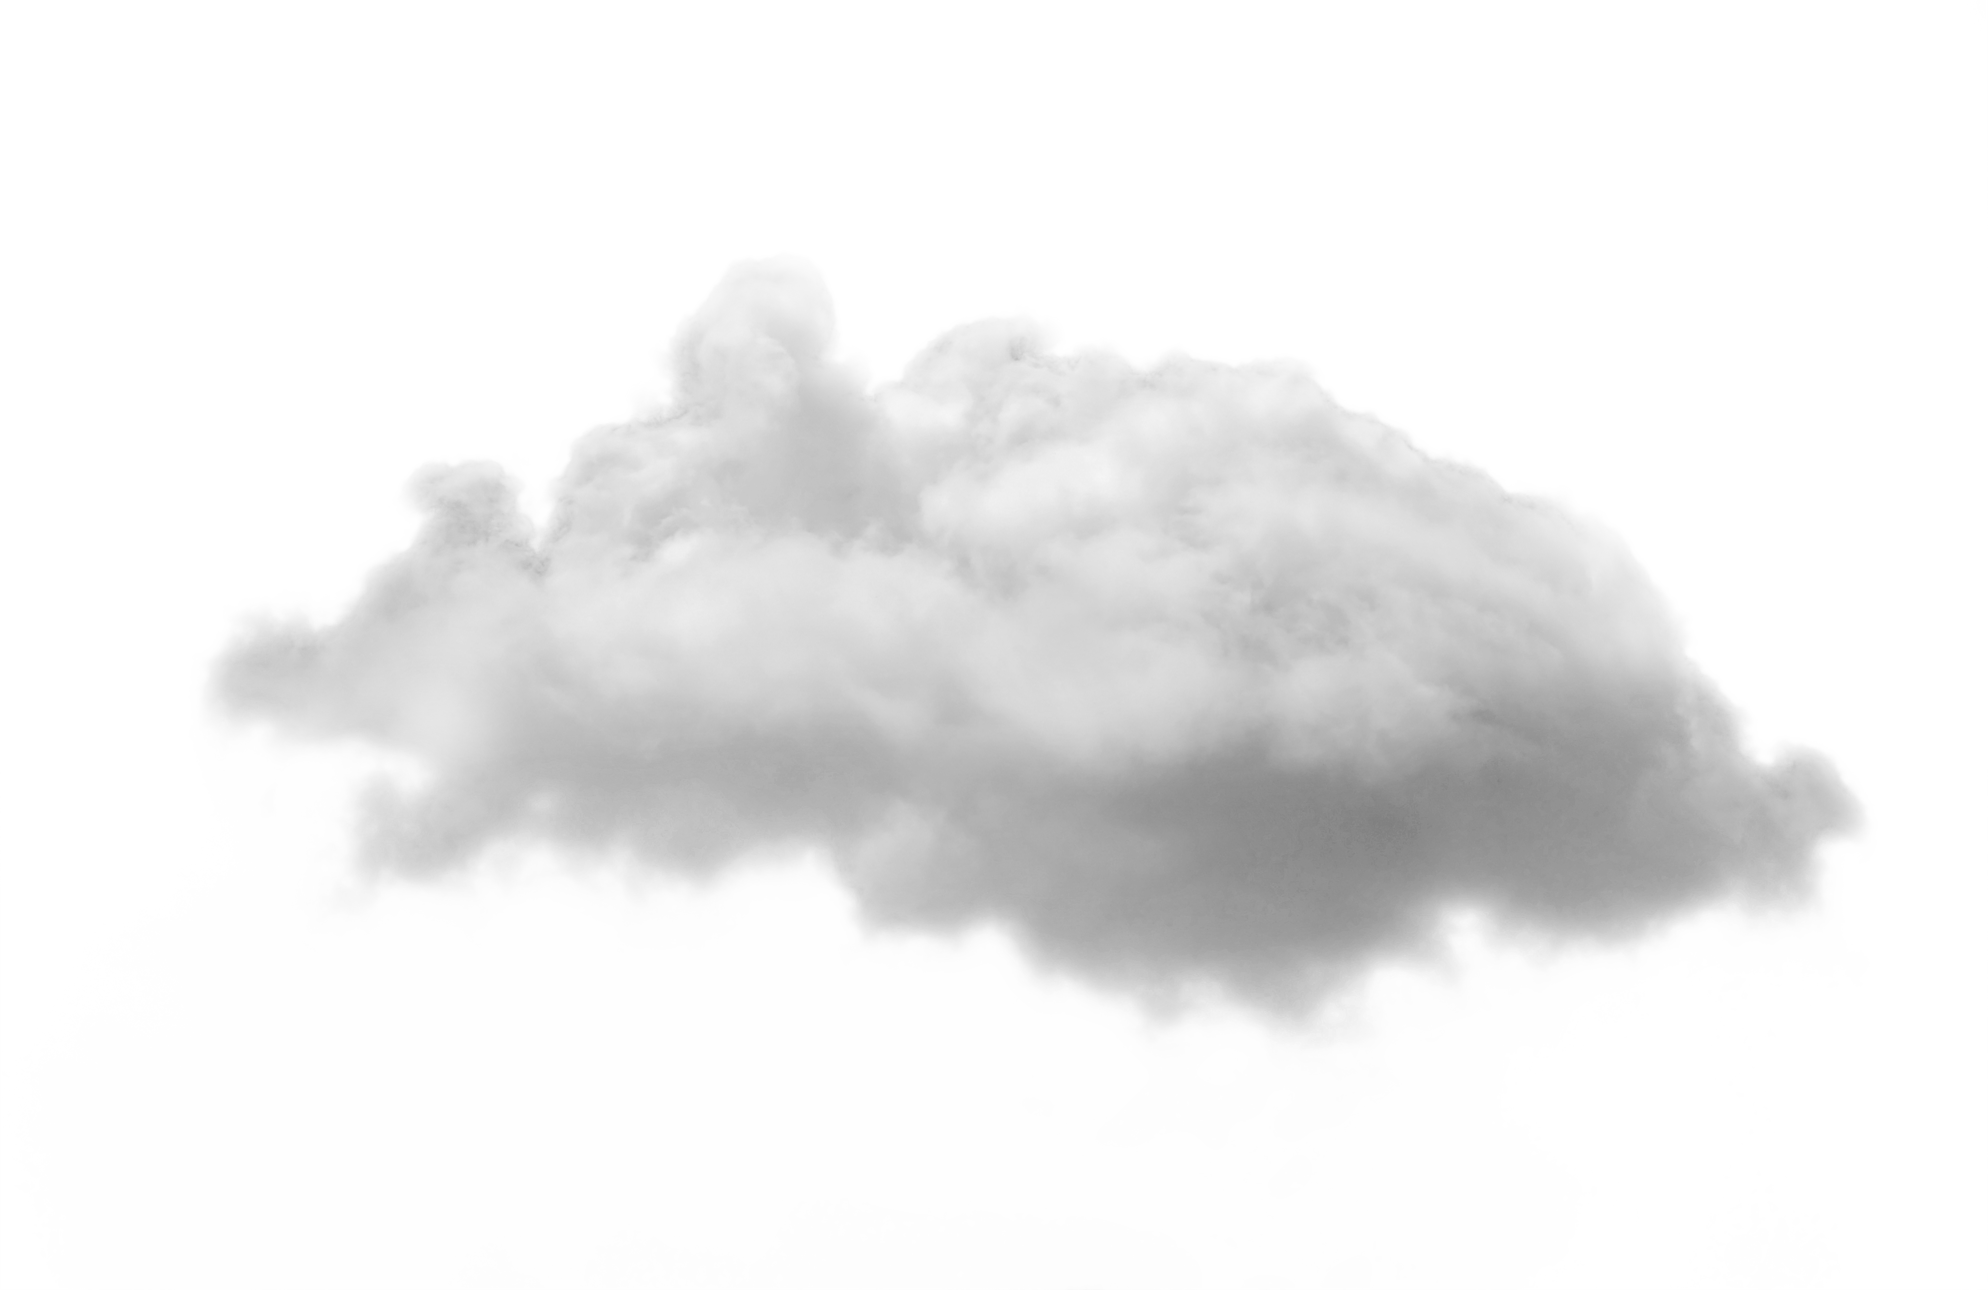
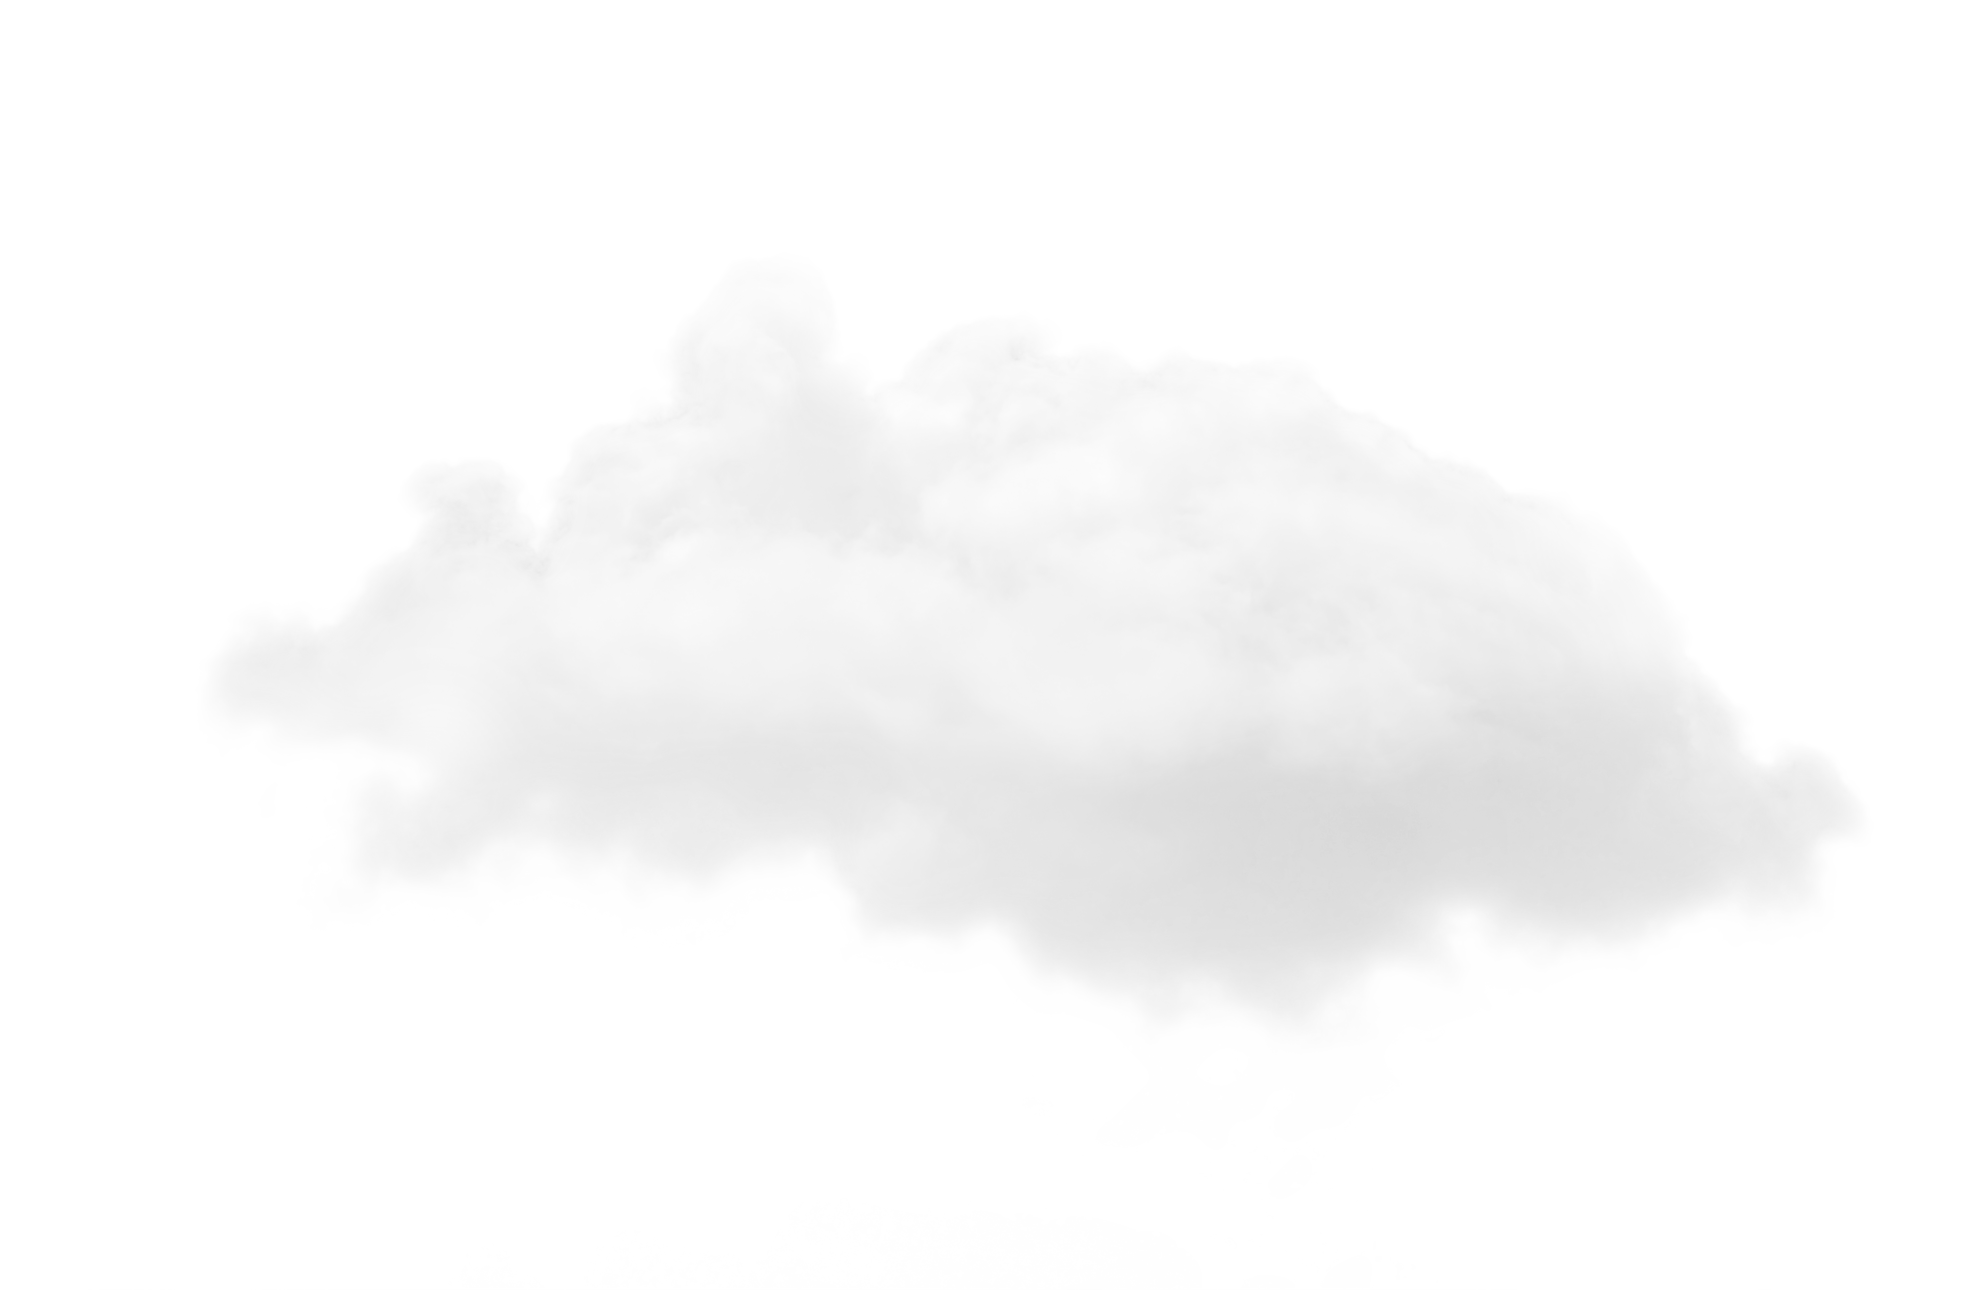
soothing clouds

Changed region(s): [[0.0936, 0.2481, 0.9356, 0.8062], [0.499, 0.2481, 0.5302, 0.2791]]

diff --git a/src/routes/abstract/+page.svelte b/src/routes/abstract/+page.svelte
@@ -12,26 +12,8 @@
     let windSpeed = 0;
     let windDirection = 0;
 
-    let cloudTextures = [];
-    const texturePaths = [
-        "cloud1.png",
-        "cloud2.png",
-        "cloud3.png",
-        "cloud4.png",
-        "cloud5.png",
-        // "cloud6.png",
-    ];
-
-    function loadTextures() {
-        const loader = new THREE.TextureLoader();
-        texturePaths.forEach((path) => {
-            cloudTextures.push(loader.load(path));
-        });
-    }
-
     onMount(async () => {
         initThreeJS();
-        loadTextures();
         animate();
         const response = await fetch("2d.json");
         data = await response.json();
@@ -58,12 +40,13 @@
 
         const radians = THREE.MathUtils.degToRad(windDirection);
         const xSpeed = Math.sin(radians) * windSpeed;
-        const ySpeed = -Math.cos(radians) * windSpeed;
+        const ySpeed = -Math.cos(radians) * windSpeed; // Negative because y-coordinates increase downwards in screen space
 
         cloudMeshes.forEach((mesh) => {
             mesh.position.x += xSpeed;
             mesh.position.y += ySpeed;
 
+            // Reset position when moving out of view for looping effect
             if (mesh.position.x > 1000) mesh.position.x = -1000;
             if (mesh.position.x < -1000) mesh.position.x = 1000;
             if (mesh.position.y > 500) mesh.position.y = -500;
@@ -76,27 +59,26 @@
     function updateEnvironment(datum) {
         const tempHue = 200;
         const timeOfDay = new Date(datum.time).getHours();
+
         const hueAdjustment = mapValue(timeOfDay, 0, 23, -10, 10);
         const adjustedHue = tempHue + hueAdjustment;
 
+        const rain = mapValue(datum.humidity, 0, 100, 100, 0);
         const light = mapValue(datum.solarradiation, 0, 1000, 20, 100);
+
         scene.background = new THREE.Color(
             `hsl(${adjustedHue}, 50%, ${light}%)`,
         );
 
-        const rain = mapValue(datum.humidity, 50, 100, 50, 0);
-        let cloudColorBrightness = Math.max(0, light * 0.5 + rain * 0.5);
-        let cloudColor = new THREE.Color(
-            `hsl(0, 0%, ${cloudColorBrightness}%)`,
-        );
+        let cloudColor = new THREE.Color(`hsl(0, 0%, ${100 - rain}%)`);
 
         const dewpoint = mapValue(datum.dewpoint, 0, 30, 0, 20);
-        const humidity = mapValue(datum.humidity, 50, 100, 0, 50);
-        let cloudDensity = humidity;
-        windSpeed = mapValue(datum.windspeed, 0, 50, 0, 1);
+        const humidity = mapValue(datum.humidity, 50, 100, 0, 20);
+        let cloudDensity = humidity; // Math.abs(humidity + dewpoint);
+        windSpeed = mapValue(datum.windspeed, 0, 30, 0, 2);
         windDirection = datum.winddir;
 
-        let cloudOpacity = mapValue(light, 0, 100, 0.3, 1);
+        let cloudOpacity = mapValue(light, 0, 100, 0.1, 1);
 
         updateClouds(cloudDensity, cloudColor, cloudOpacity);
         time = datum.time + " | " + cloudDensity + " | " + rain;
@@ -106,15 +88,16 @@
         cloudMeshes.forEach((mesh) => scene.remove(mesh));
         cloudMeshes = [];
 
-        const texture =
-            cloudTextures[Math.floor(Math.random() * cloudTextures.length)];
+        const texture = new THREE.TextureLoader().load("cloud3.png");
+        const fog = new THREE.Fog(scene.background, 50, 1500);
+
         const material = new THREE.ShaderMaterial({
             uniforms: {
                 map: { value: texture },
-                cloudColor: { value: cloudColor },
+                fogColor: { value: cloudColor },
                 cloudOpacity: { value: cloudOpacity },
-                fogNear: { value: 50 },
-                fogFar: { value: 1500 },
+                fogNear: { value: fog.near },
+                fogFar: { value: fog.far },
             },
             vertexShader,
             fragmentShader,
@@ -122,18 +105,15 @@
             depthWrite: false,
             side: THREE.DoubleSide,
         });
+
         for (let i = 0; i < cloudCover; i++) {
             let plane = new THREE.Mesh(
                 new THREE.PlaneGeometry(cloudCover * 40, cloudCover * 40),
                 material,
             );
-            plane.position.set(
-                Math.random() * 1000 - 500,
-                Math.random() * 500 - 250,
-                Math.random() * 900 - 100,
-            );
-
-            plane.rotation.z = Math.random() * 1000 - 750 * Math.PI;
+            plane.rotation.x = Math.random() * Math.PI;
+            plane.rotation.y = Math.random() * Math.PI; 
+            // plane.rotation.z = Math.random() * Math.PI;
             scene.add(plane);
             cloudMeshes.push(plane);
         }

diff --git a/src/lib/components/Header.svelte b/src/lib/components/Header.svelte
@@ -3,7 +3,8 @@
         <a href="/">Clouds</a> -
         <a href="/cloud">Cloud</a>
         ⎯
-        <a href="/3d">3D</a>
+        <a href="/3d">3D</a> - 
+        <a href="/abstract">Abstract</a>
          ⎯
         <a href="/perlin">Perlin</a> -
         <a href="/clouds2">Clouds</a> -
